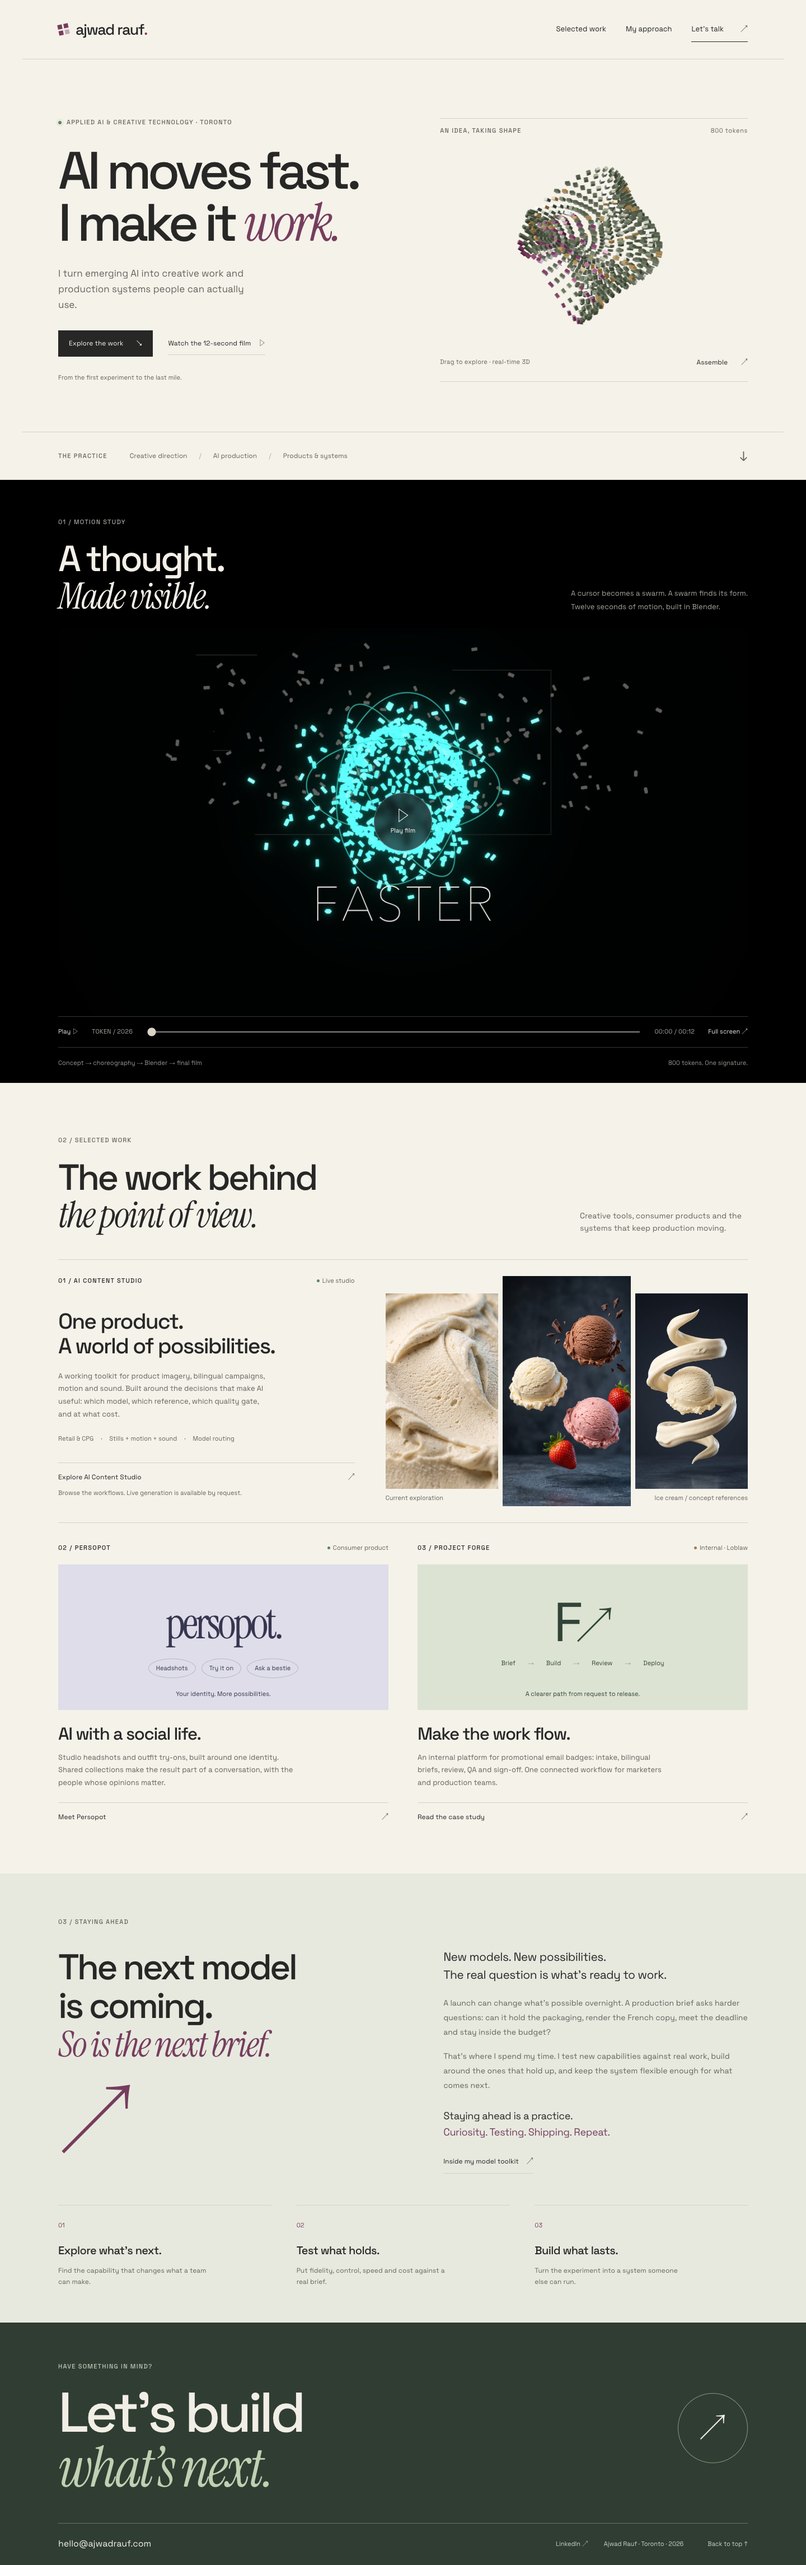
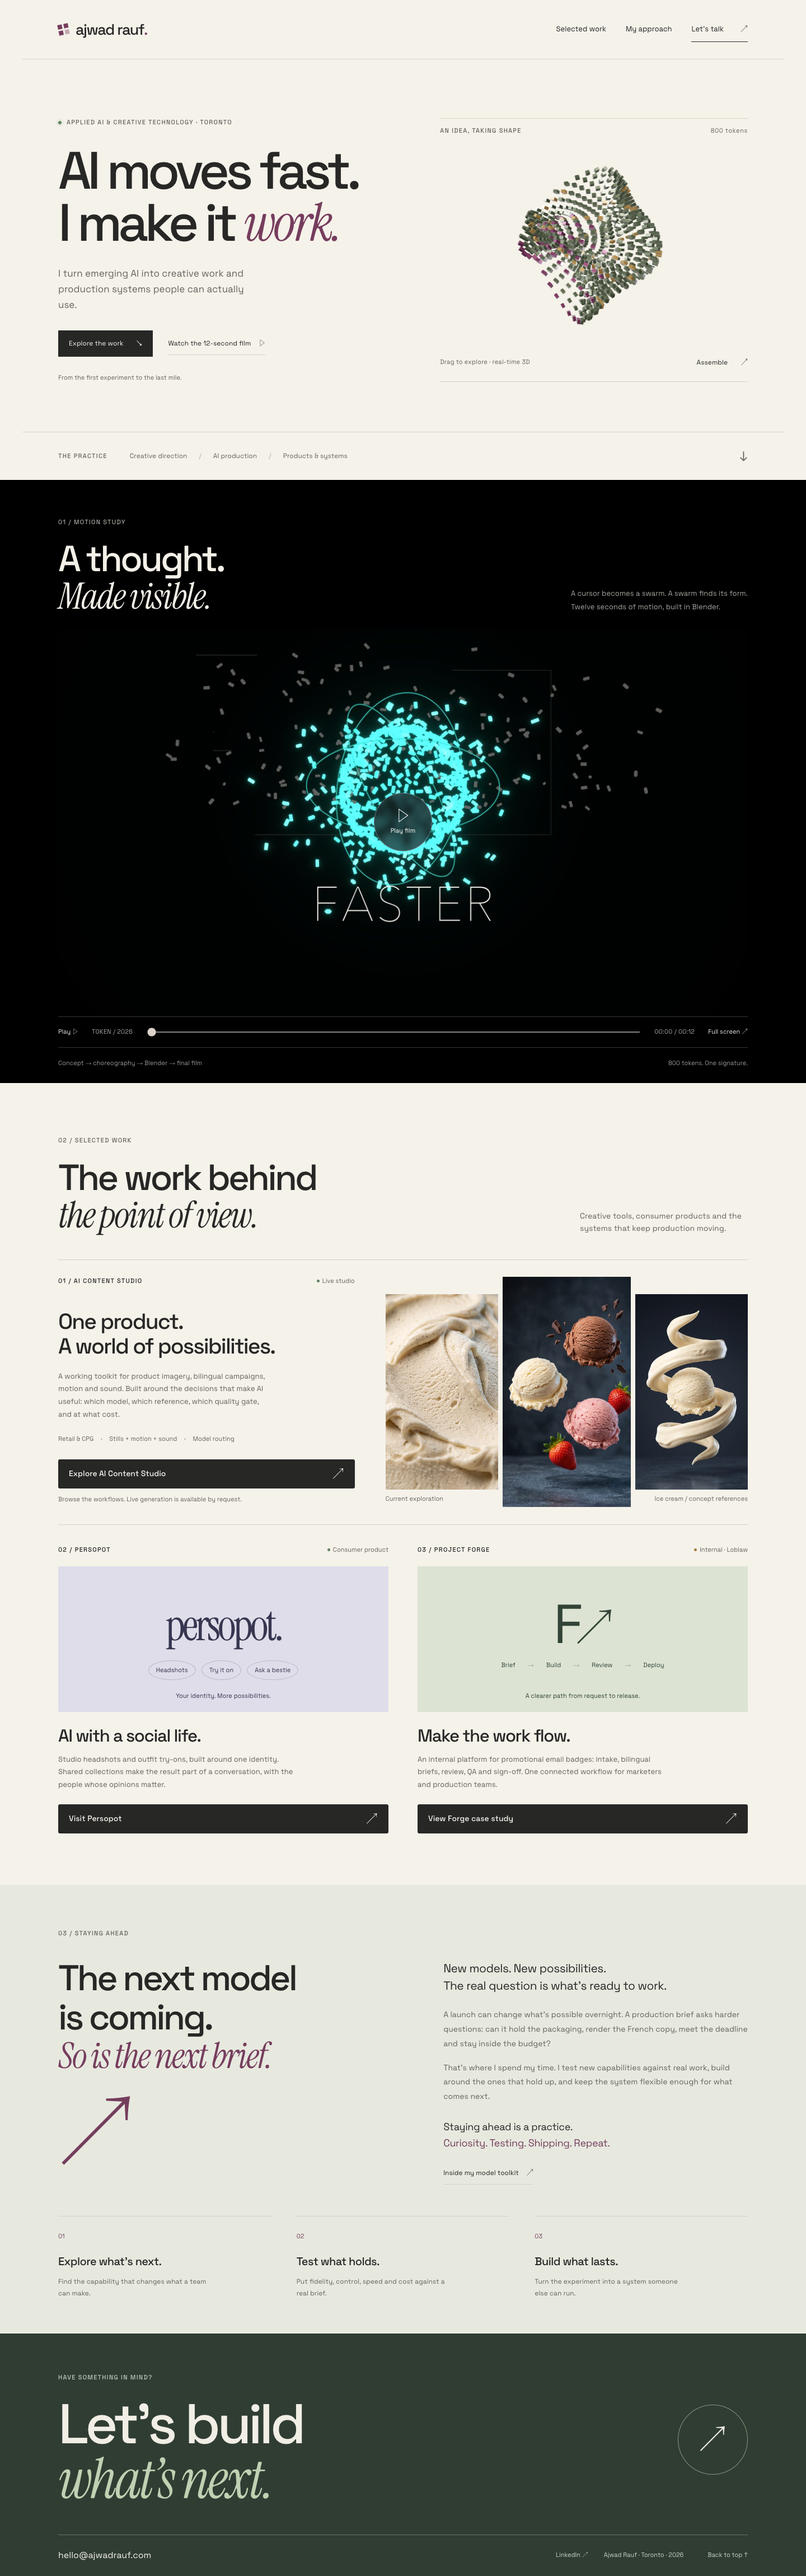
Make all three project links prominent and easy to click

diff --git a/design/homepage-concept/index.html b/design/homepage-concept/index.html
@@ -55,12 +55,12 @@
         <article class="ar-persopot-project">
           <div class="ar-project-meta"><span class="ar-eyebrow">02 / Persopot</span><span class="ar-status">Consumer product</span></div>
           <div class="ar-perso-visual" aria-label="Persopot product capabilities"><span class="ar-perso-title">persopot.</span><div class="ar-perso-orbit"><span>Headshots</span><span>Try it on</span><span>Ask a bestie</span></div><span class="ar-perso-caption">Your identity. More possibilities.</span></div>
-          <h3>AI with a social life.</h3><p>Studio headshots and outfit try-ons, built around one identity. Shared collections make the result part of a conversation, with the people whose opinions matter.</p><a class="ar-project-link" href="https://persopot.com" target="_blank" rel="noopener">Meet Persopot <span aria-hidden="true">↗</span></a>
+          <h3>AI with a social life.</h3><p>Studio headshots and outfit try-ons, built around one identity. Shared collections make the result part of a conversation, with the people whose opinions matter.</p><a class="ar-project-link" href="https://persopot.com" target="_blank" rel="noopener">Visit Persopot <span aria-hidden="true">↗</span></a>
         </article>
         <article class="ar-forge-project">
           <div class="ar-project-meta"><span class="ar-eyebrow">03 / Project Forge</span><span class="ar-status ar-status-internal">Internal · Loblaw</span></div>
           <div class="ar-forge-visual"><span class="ar-forge-monogram" aria-hidden="true">F<span>↗</span></span><ol aria-label="Project Forge workflow"><li>Brief</li><li>Build</li><li>Review</li><li>Deploy</li></ol><span class="ar-forge-caption">A clearer path from request to release.</span></div>
-          <h3>Make the work flow.</h3><p>An internal platform for promotional email badges: intake, bilingual briefs, review, QA and sign-off. One connected workflow for marketers and production teams.</p><a class="ar-project-link" href="https://www.ajwadrauf.com/project-forge" target="_blank" rel="noopener">Read the case study <span aria-hidden="true">↗</span></a>
+          <h3>Make the work flow.</h3><p>An internal platform for promotional email badges: intake, bilingual briefs, review, QA and sign-off. One connected workflow for marketers and production teams.</p><a class="ar-project-link" href="https://www.ajwadrauf.com/project-forge" target="_blank" rel="noopener">View Forge case study <span aria-hidden="true">↗</span></a>
         </article>
       </div>
     </section>

diff --git a/design/homepage-concept/page-fragment.html b/design/homepage-concept/page-fragment.html
@@ -46,12 +46,12 @@
         <article class="ar-persopot-project">
           <div class="ar-project-meta"><span class="ar-eyebrow">02 / Persopot</span><span class="ar-status">Consumer product</span></div>
           <div class="ar-perso-visual" aria-label="Persopot product capabilities"><span class="ar-perso-title">persopot.</span><div class="ar-perso-orbit"><span>Headshots</span><span>Try it on</span><span>Ask a bestie</span></div><span class="ar-perso-caption">Your identity. More possibilities.</span></div>
-          <h3>AI with a social life.</h3><p>Studio headshots and outfit try-ons, built around one identity. Shared collections make the result part of a conversation, with the people whose opinions matter.</p><a class="ar-project-link" href="https://persopot.com" target="_blank" rel="noopener">Meet Persopot <span aria-hidden="true">↗</span></a>
+          <h3>AI with a social life.</h3><p>Studio headshots and outfit try-ons, built around one identity. Shared collections make the result part of a conversation, with the people whose opinions matter.</p><a class="ar-project-link" href="https://persopot.com" target="_blank" rel="noopener">Visit Persopot <span aria-hidden="true">↗</span></a>
         </article>
         <article class="ar-forge-project">
           <div class="ar-project-meta"><span class="ar-eyebrow">03 / Project Forge</span><span class="ar-status ar-status-internal">Internal · Loblaw</span></div>
           <div class="ar-forge-visual"><span class="ar-forge-monogram" aria-hidden="true">F<span>↗</span></span><ol aria-label="Project Forge workflow"><li>Brief</li><li>Build</li><li>Review</li><li>Deploy</li></ol><span class="ar-forge-caption">A clearer path from request to release.</span></div>
-          <h3>Make the work flow.</h3><p>An internal platform for promotional email badges: intake, bilingual briefs, review, QA and sign-off. One connected workflow for marketers and production teams.</p><a class="ar-project-link" href="https://www.ajwadrauf.com/project-forge" target="_blank" rel="noopener">Read the case study <span aria-hidden="true">↗</span></a>
+          <h3>Make the work flow.</h3><p>An internal platform for promotional email badges: intake, bilingual briefs, review, QA and sign-off. One connected workflow for marketers and production teams.</p><a class="ar-project-link" href="https://www.ajwadrauf.com/project-forge" target="_blank" rel="noopener">View Forge case study <span aria-hidden="true">↗</span></a>
         </article>
       </div>
     </section>

diff --git a/design/homepage-concept/styles.css b/design/homepage-concept/styles.css
@@ -79,8 +79,10 @@
 #ajwad-home .ar-project-copy>p{color:var(--ar-muted);font-size:13px;line-height:1.75;max-width:370px}
 #ajwad-home .ar-tags{display:flex;gap:8px 13px;flex-wrap:wrap;margin-top:23px;font-size:11px;color:var(--ar-muted)}
 #ajwad-home .ar-tags span+span:before{content:'·';margin-right:13px;color:var(--ar-accent)}
-#ajwad-home .ar-project-link{font-size:12px;display:flex;justify-content:space-between;align-items:center;border-top:1px solid var(--ar-line);padding-top:16px;margin-top:34px}
-#ajwad-home .ar-project-link:hover{color:var(--ar-accent)}
+#ajwad-home .ar-project-link{display:flex;width:100%;min-height:52px;justify-content:space-between;align-items:center;gap:16px;margin-top:28px;padding:14px 18px;border:1px solid var(--ar-ink);border-radius:3px;background:var(--ar-ink);color:var(--ar-paper);font-size:14px;font-weight:500;line-height:1.4;cursor:pointer;transition:background .2s,border-color .2s,transform .2s}
+#ajwad-home .ar-project-link>span{flex-shrink:0;font-size:21px;line-height:1}
+#ajwad-home .ar-project-link:hover,#ajwad-home .ar-project-link:focus-visible{background:var(--ar-accent);border-color:var(--ar-accent);color:var(--ar-paper)}
+@media(hover:hover) and (prefers-reduced-motion:no-preference){#ajwad-home .ar-project-link:hover{transform:translateY(-2px)}}
 #ajwad-home .ar-project-copy>.ar-access-note{font-size:11px;margin-top:10px}
 #ajwad-home .ar-studio-visual{min-width:0;display:flex;flex-direction:column;justify-content:center}
 #ajwad-home .ar-image-triptych{display:grid;grid-template-columns:1fr 1.14fr 1fr;gap:8px;height:375px;align-items:center}

diff --git a/design/homepage-concept/CLAUDE_HANDOFF.md b/design/homepage-concept/CLAUDE_HANDOFF.md
@@ -43,6 +43,8 @@ Run the standalone preview as described in [README.md](README.md). Inspect the d
 
 Use the full copy in `page-fragment.html`. Keep the warm ivory, plum accents, olive surfaces and black film section. Space Grotesk supplies the main voice; Instrument Serif adds expressive emphasis. Match the supplied hierarchy and spacing rather than replacing the design with generic cards.
 
+**Project links must look clickable at rest.** Ajwad found the original small text links difficult to identify. All three project destinations now use full-width, filled buttons with 14 px labels, a 52 px minimum height, a visible arrow, strong contrast, and distinct hover/keyboard-focus states. Preserve this treatment for “Explore AI Content Studio,” “Visit Persopot,” and “View Forge case study.” Keep real anchor semantics and the existing destination URLs; the filled button area is the click target. Do not reduce these to low-contrast text or make hover the only indication of clickability.
+
 ## Map to the existing Next.js application
 
 These are proposed implementation locations; adapt names to repository conventions.

diff --git a/design/homepage-concept/README.md b/design/homepage-concept/README.md
@@ -19,11 +19,15 @@ Open **http://localhost:8765**. No API keys, Next.js installation, or generation
 
 Try **Assemble** in the hero, **Explore again**, dragging the sculpture, and playing the film. The video starts on request. Three.js and the media are included locally; Google Fonts requires an internet connection and has system-font fallbacks.
 
+The three project destinations use prominent filled buttons, larger labels and arrow icons so their clickable area is visible before hover, including on touch screens.
+
 ### Desktop
 
 ![Desktop homepage hero](review/desktop-hero.png)
 
 [Full desktop page](review/desktop-full.png) · [Assembled wordmark](review/desktop-assembled.png) · [Mobile page](review/width-390.png)
+
+[Updated project buttons — desktop](review/project-links-desktop.png) · [Updated project buttons — mobile](review/project-links-mobile.png)
 
 ## What to use
 
